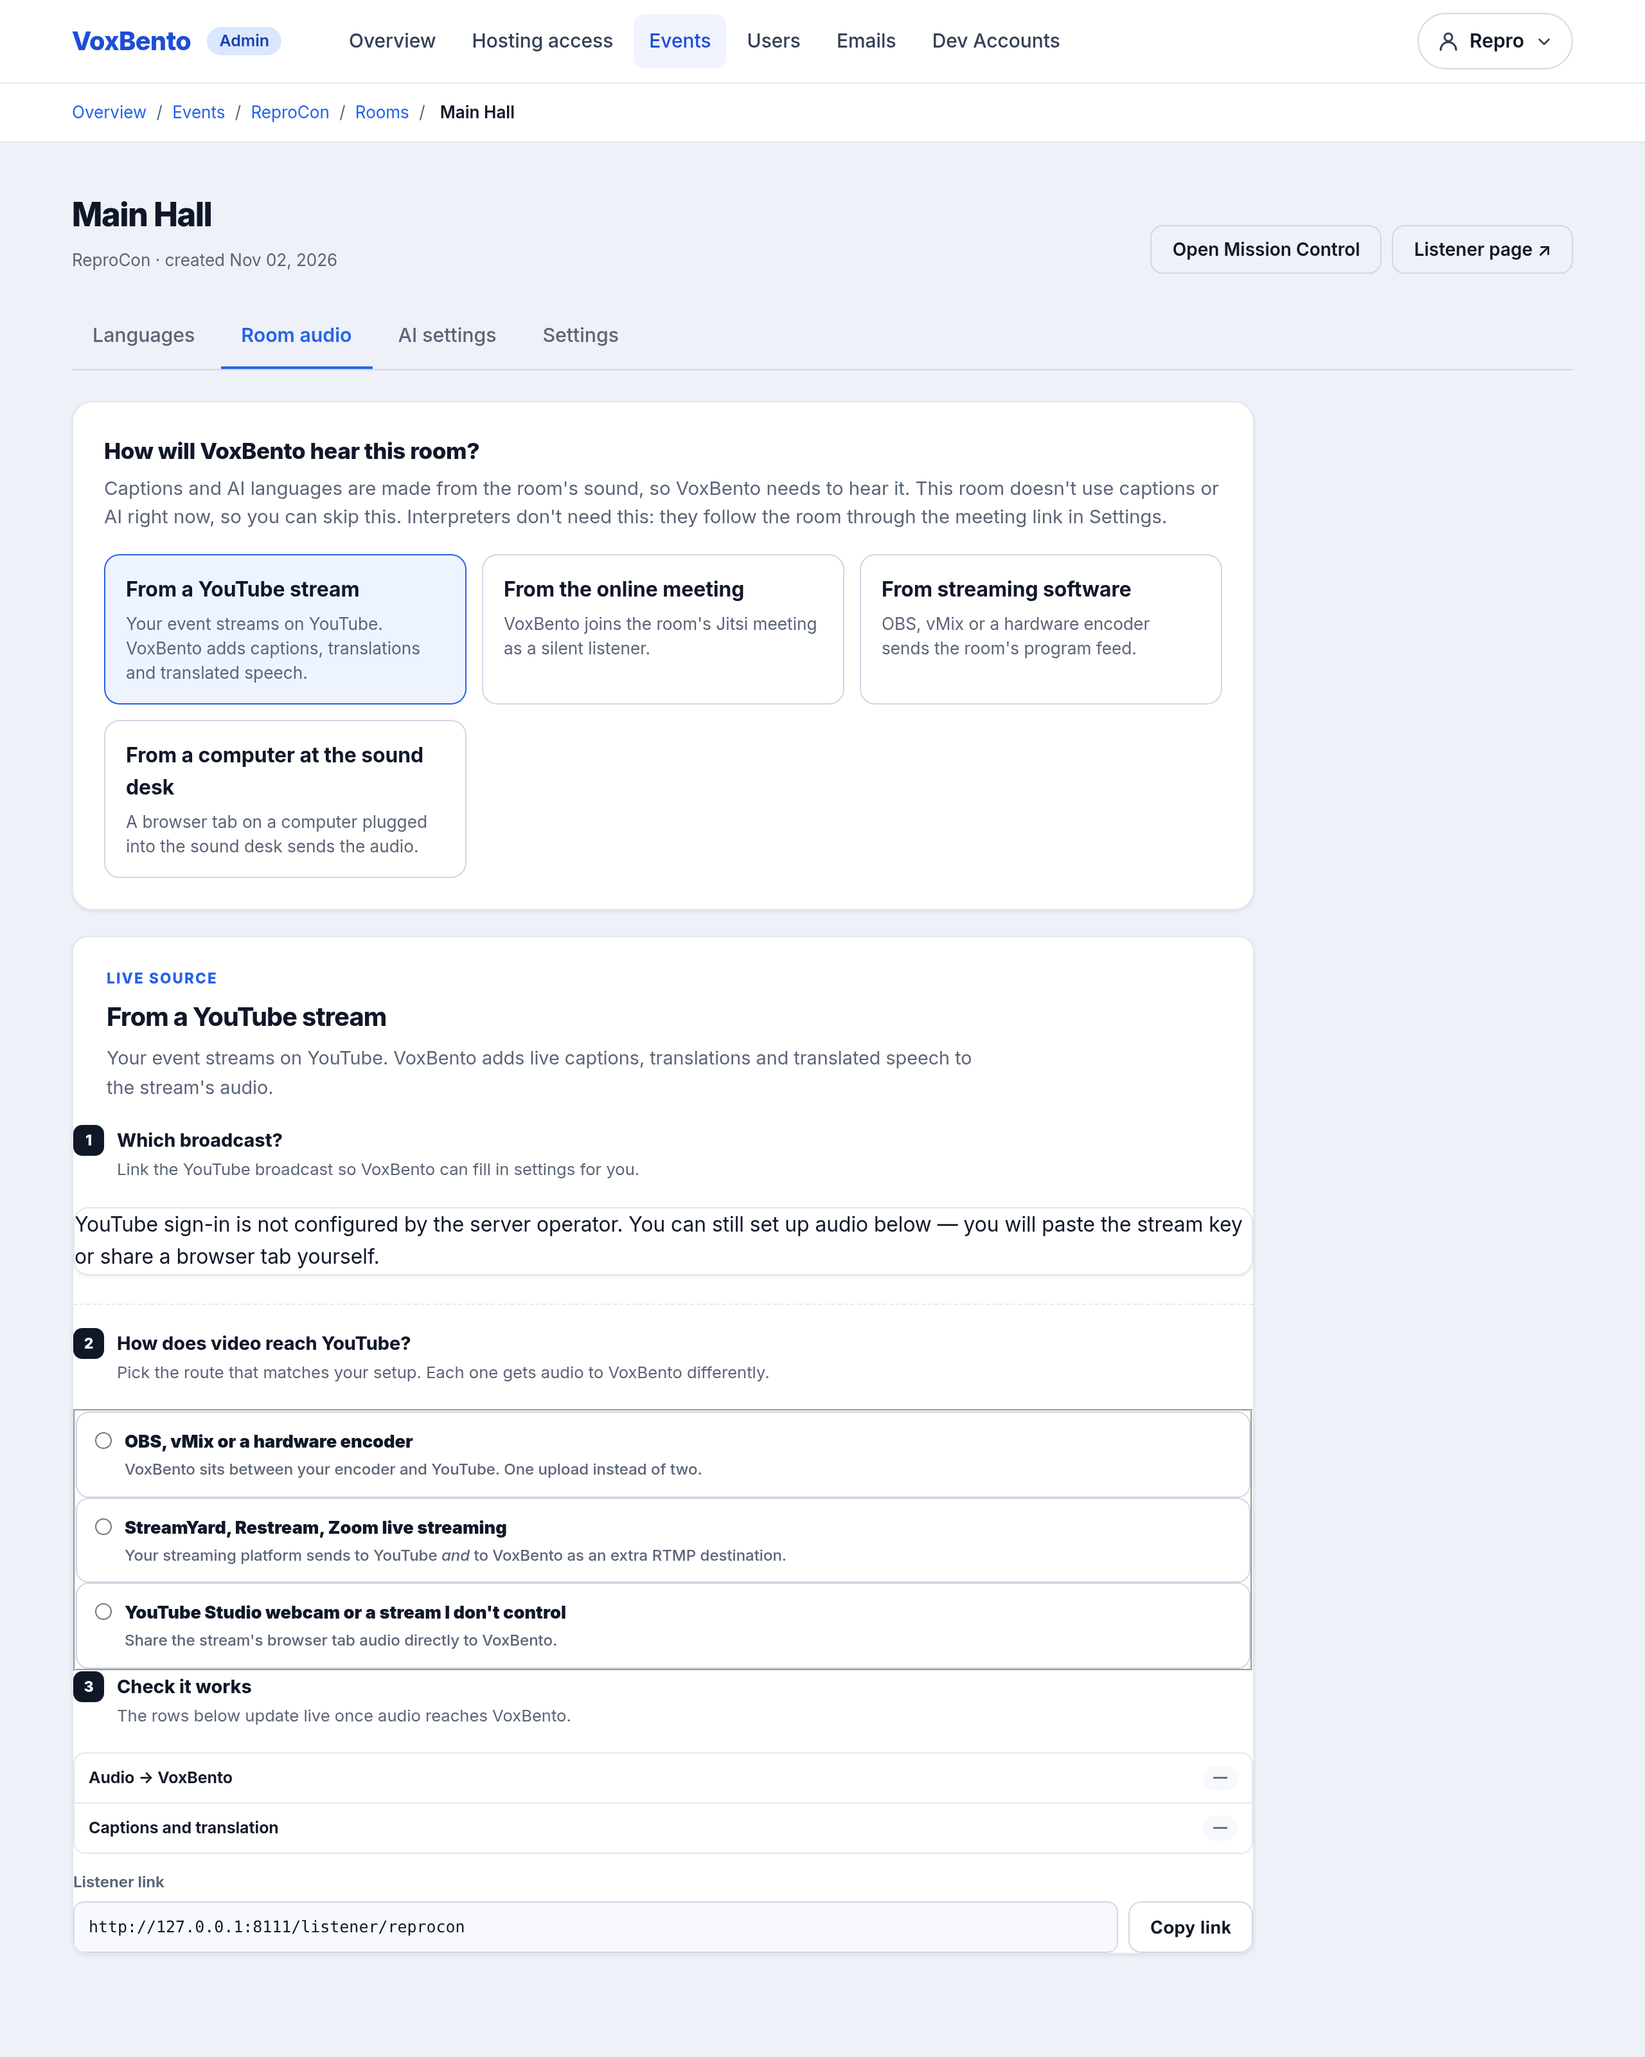
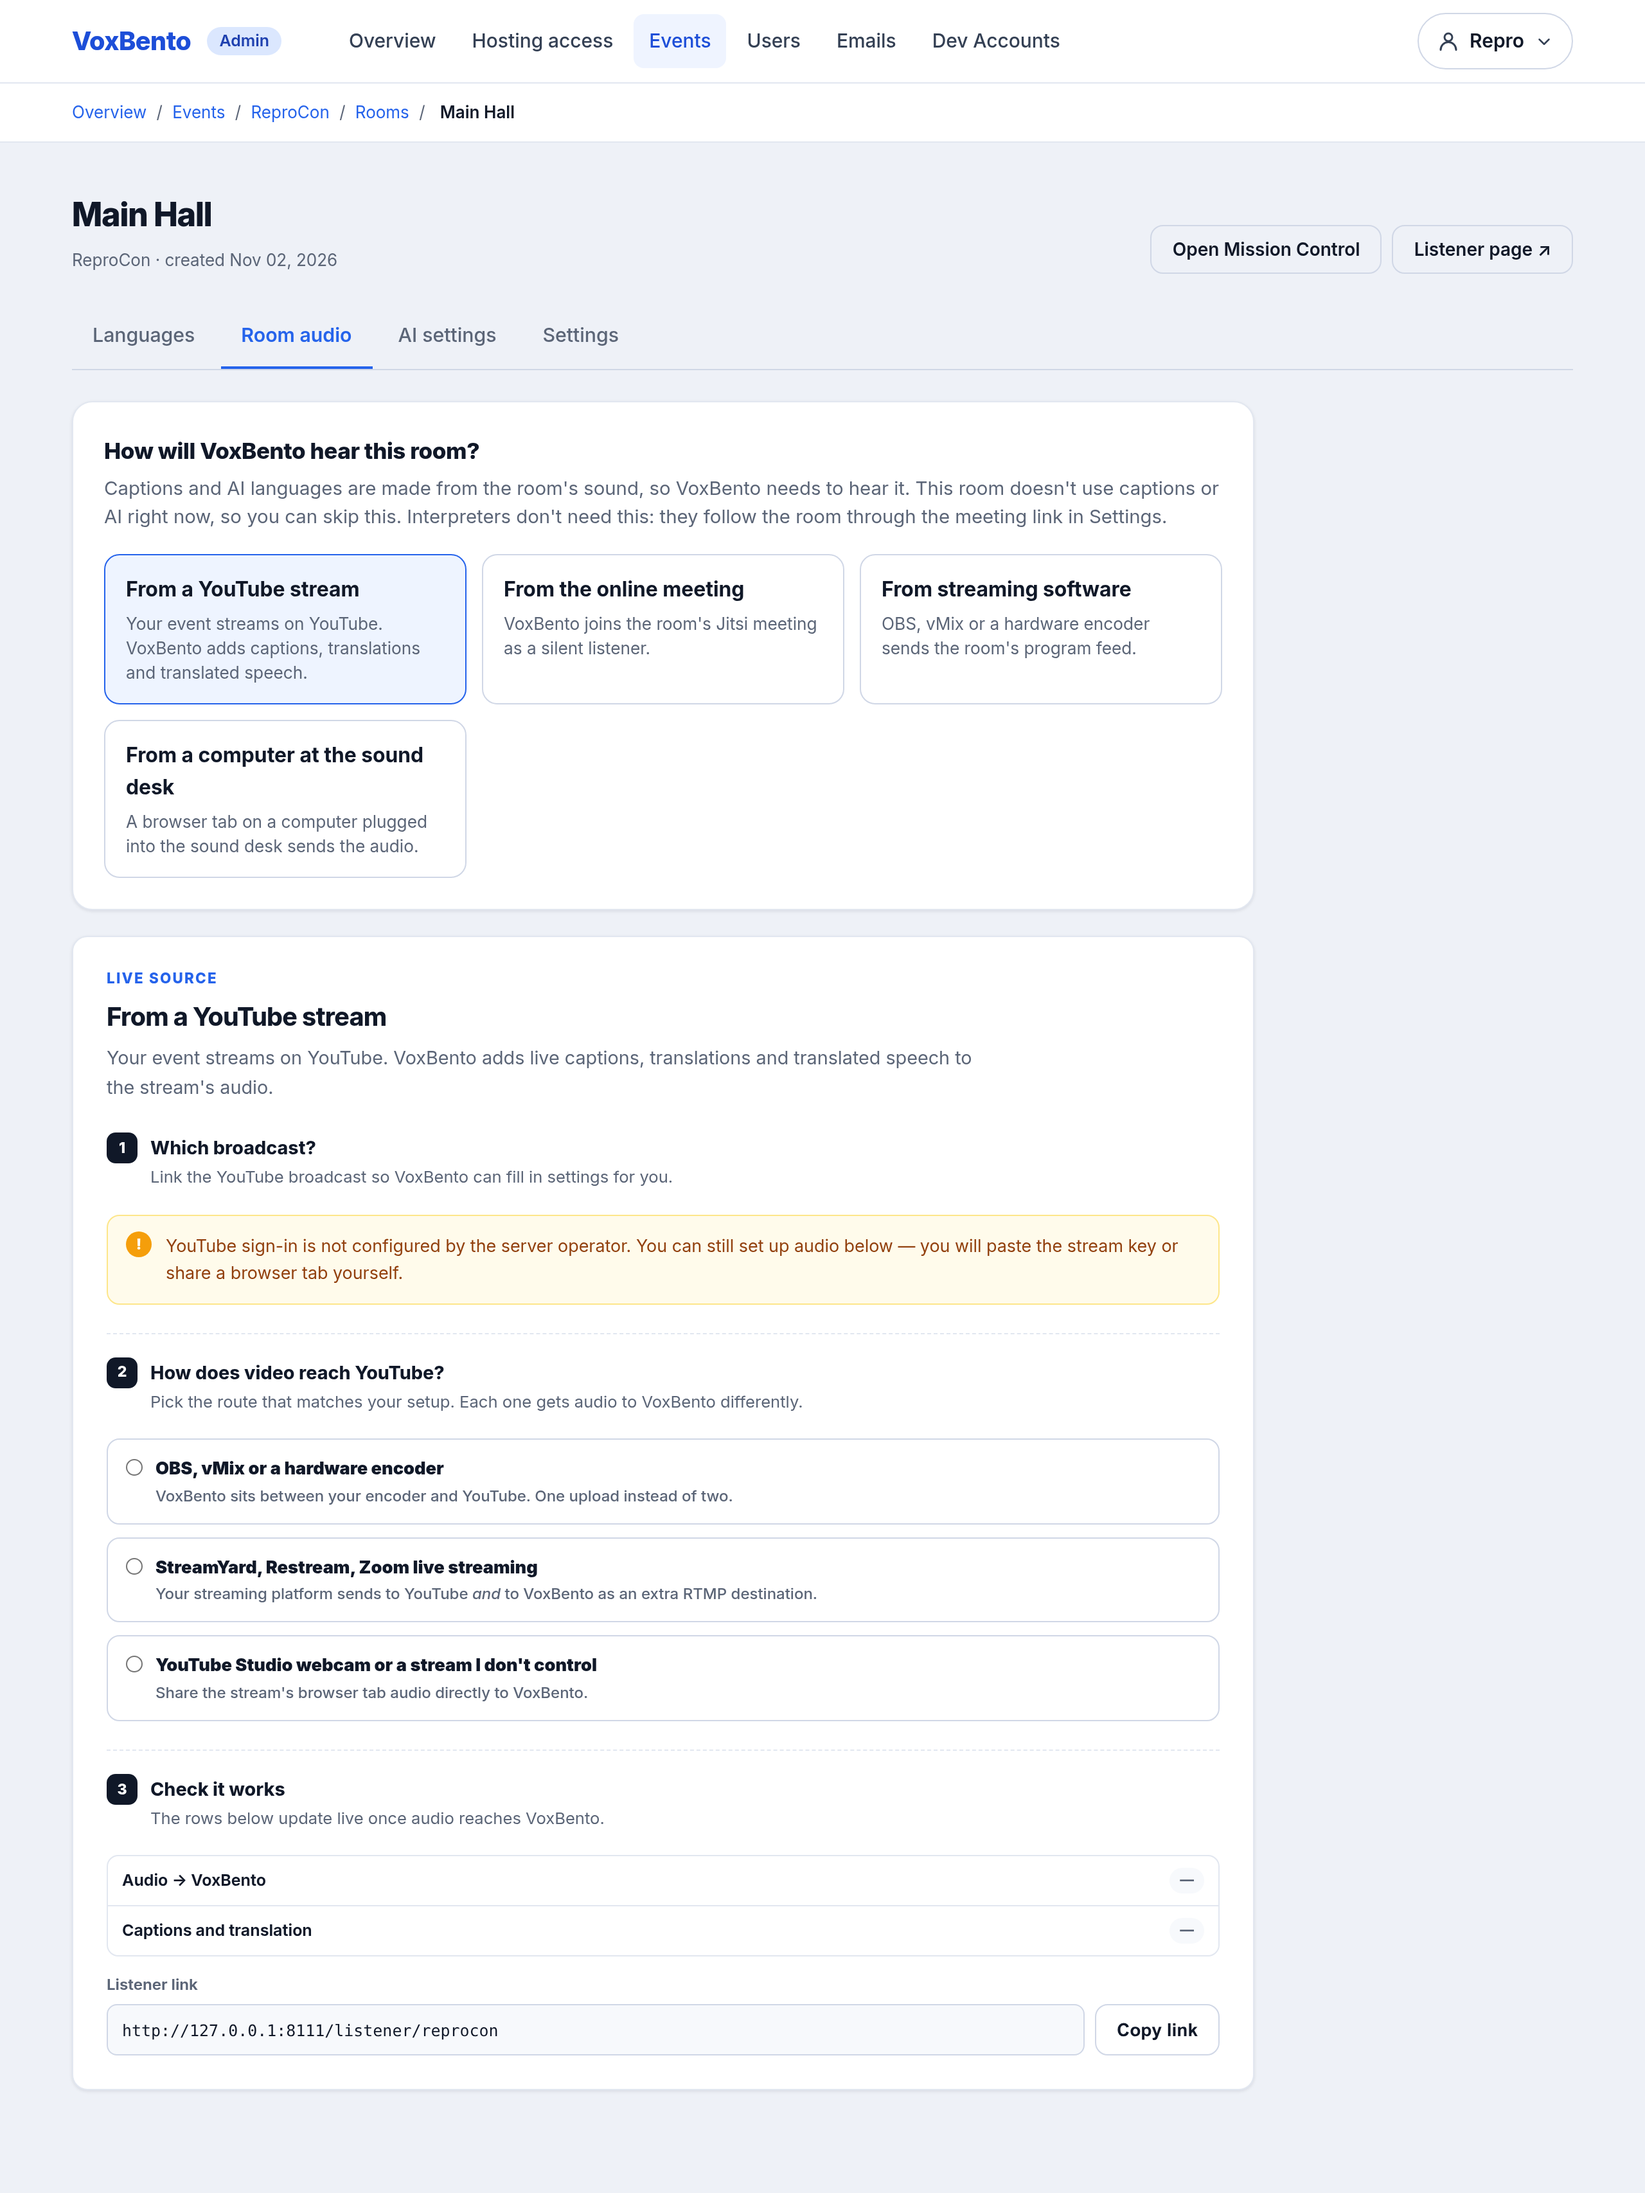
fix(room_detail): style the YouTube panel like the streaming software panel
The panel had no padded body, so its steps ran to the card edge, the
sign-in notice rendered as bare text and the route picker kept the
browser's default fieldset border.

diff --git a/portal/templates/admin/_youtube_source.html b/portal/templates/admin/_youtube_source.html
@@ -9,6 +9,7 @@
     </div>
   </div>
 
+  <div class="youtube-source-body">
   <div class="program-setup-step">
     <div class="program-section-head">
       <span class="program-step">1</span>
@@ -19,9 +20,10 @@
     </div>
     {% if settings is defined and settings.youtube_connect_enabled is defined and settings.youtube_connect_enabled %}
     {% include 'admin/_youtube_connect.html' %}
-    <p class="card youtube-source-skip">Not your channel or can't sign in? <a href="#youtube-step-route" data-youtube-skip-broadcast>Skip to step 2</a></p>
+    <p class="youtube-source-skip">Not your channel or can't sign in? <a href="#youtube-step-route" data-youtube-skip-broadcast>Skip to step 2</a></p>
     {% else %}
-    <div class="card youtube-source-fallback">
+    <div class="program-ingest-warning youtube-source-fallback" role="note">
+      <span class="program-ingest-warning-icon" aria-hidden="true">!</span>
       <p>YouTube sign-in is not configured by the server operator. You can still set up audio below — you will paste the stream key or share a browser tab yourself.</p>
     </div>
     {% endif %}
@@ -61,7 +63,7 @@
   </div>
 
   <div class="youtube-route-panel" data-youtube-route="encoder" hidden>
-    <div class="card">
+    <div class="youtube-route-box">
       <h4>Set up forwarding</h4>
       <p>VoxBento receives your encoder stream and forwards it to YouTube unchanged. You keep one output, one upload.</p>
       <button type="button" class="btn btn-primary" id="youtube-setup-forwarding">Set up forwarding</button>
@@ -70,7 +72,7 @@
   </div>
 
   <div class="youtube-route-panel" data-youtube-route="multi" hidden>
-    <div class="card">
+    <div class="youtube-route-box">
       <h4>Add VoxBento as an extra destination</h4>
       <p>In your streaming platform, add a <strong>Custom RTMP</strong> destination with the server URL and stream key shown below after you enable ingest.</p>
       <button type="button" class="btn btn-primary" id="youtube-setup-multi">Enable ingest</button>
@@ -98,7 +100,7 @@
   </div>
 
   <div class="youtube-route-panel" data-youtube-route="none" hidden>
-    <div class="card">
+    <div class="youtube-route-box">
       <h4>Share the stream's browser tab</h4>
       <p>Open the YouTube stream in a browser tab, then open the sender page below and share that tab's audio.</p>
       <a class="btn btn-primary" id="youtube-tab-sender" href="{{ management_prefix }}/events/{{ event.id }}/rooms/{{ room.id }}/sender/?source=tab" target="_blank" rel="noopener">Open sender (tab audio)</a>
@@ -126,6 +128,7 @@
         <button type="button" class="btn btn-outline" data-copy-target="youtube-listener-url">Copy link</button>
       </div>
     </div>
+  </div>
   </div>
 </section>
 <script type="module" src="/static/js/youtube-source.js"></script>

diff --git a/portal/static/css/admin.css b/portal/static/css/admin.css
@@ -1258,6 +1258,18 @@ code { font-family: var(--font-mono); font-size: 0.85em; background: var(--color
 .program-relay-risk p { color: #991b1b; }
 .program-relay-risk .program-ingest-warning-icon { background: var(--color-danger); }
 .program-setup-step + .program-setup-step { margin-top: 22px; padding-top: 18px; border-top: 1px dashed var(--color-border); }
+.youtube-source-body { padding: 6px 26px 26px; }
+.youtube-source-body .program-setup-step ~ .program-setup-step { margin-top: 22px; padding-top: 18px; border-top: 1px dashed var(--color-border); }
+.youtube-source-body .program-ingest-warning { margin: 0; }
+.youtube-source-skip { color: var(--color-text-secondary); font-size: 0.8rem; }
+.youtube-route-picker { display: grid; gap: 10px; margin: 0; padding: 0; border: 0; }
+.youtube-route-panel { margin-top: 14px; }
+.youtube-route-box { display: grid; gap: 10px; justify-items: start; padding: 16px 18px; border: 1px solid var(--color-border); border-radius: 10px; background: var(--color-surface-2); font-size: 0.84rem; }
+.youtube-route-box h4 { margin: 0; font-size: 0.95rem; }
+.youtube-route-box p { margin: 0; color: var(--color-text-secondary); }
+.youtube-route-box > div,
+.youtube-route-box .program-copy-field { width: 100%; }
+.youtube-listener-link label { display: block; margin-bottom: 6px; color: var(--color-text-secondary); font-size: 0.75rem; font-weight: 650; }
 .program-step[data-status='todo'] { background: var(--color-surface-2); color: var(--color-muted); box-shadow: inset 0 0 0 1px var(--color-border-strong); }
 .program-step[data-status='done'] { background: var(--color-success); font-size: 0; }
 .program-step[data-status='done']::after { content: '✓'; font-size: 0.8rem; }
@@ -1303,6 +1315,7 @@ code { font-family: var(--font-mono); font-size: 0.85em; background: var(--color
   .program-ingest-warning,
   .program-mode-picker { margin-inline: 20px; }
   .program-ingest-layout { padding: 20px; }
+  .youtube-source-body { padding: 4px 20px 20px; }
   .program-copy-field { flex-wrap: wrap; }
   .program-copy-field .btn { flex: 1; }
   .program-primary-action { align-items: stretch; flex-direction: column; }
